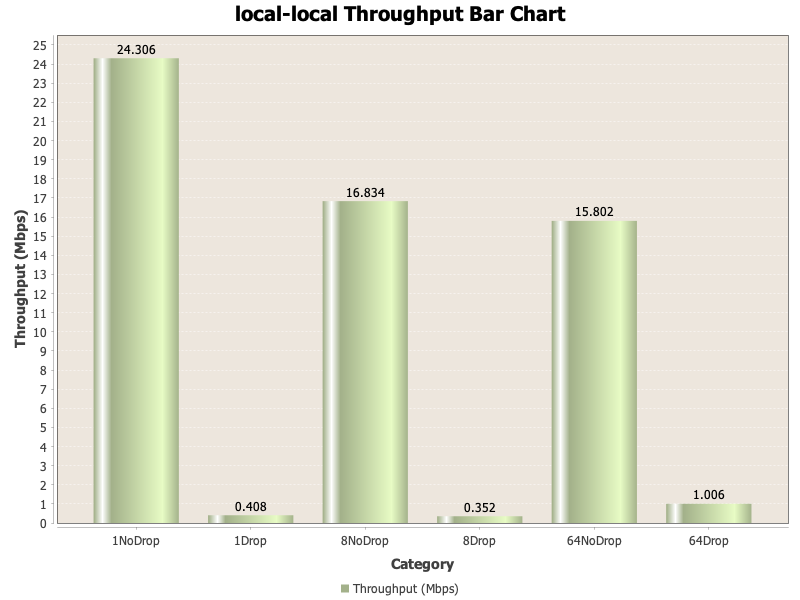
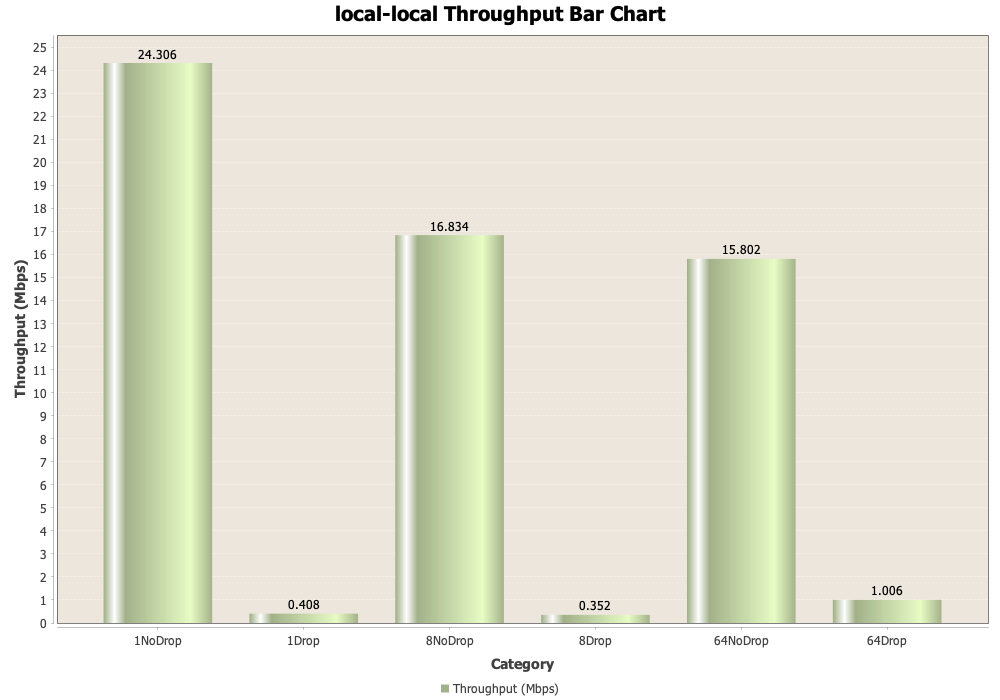
Chart size modified

Changed region(s): [[0.0, 0.0, 1.0, 1.0], [0.4375, 0.3, 0.5, 0.33]]

diff --git a/src/main/java/org/example/GraphGenerator.java b/src/main/java/org/example/GraphGenerator.java
@@ -90,7 +90,7 @@ public class GraphGenerator {
                 dir.mkdirs(); // Create the directory if it doesn't exist.
             }
             File outputFile = new File(dir, "throughput_bar_chart.png");
-            ChartUtils.saveChartAsPNG(outputFile, barChart, 800, 600);
+            ChartUtils.saveChartAsPNG(outputFile, barChart, 1000, 700);
             System.out.println("Graph saved as: " + outputFile.getAbsolutePath());
         } catch (IOException e) {
             e.printStackTrace();
